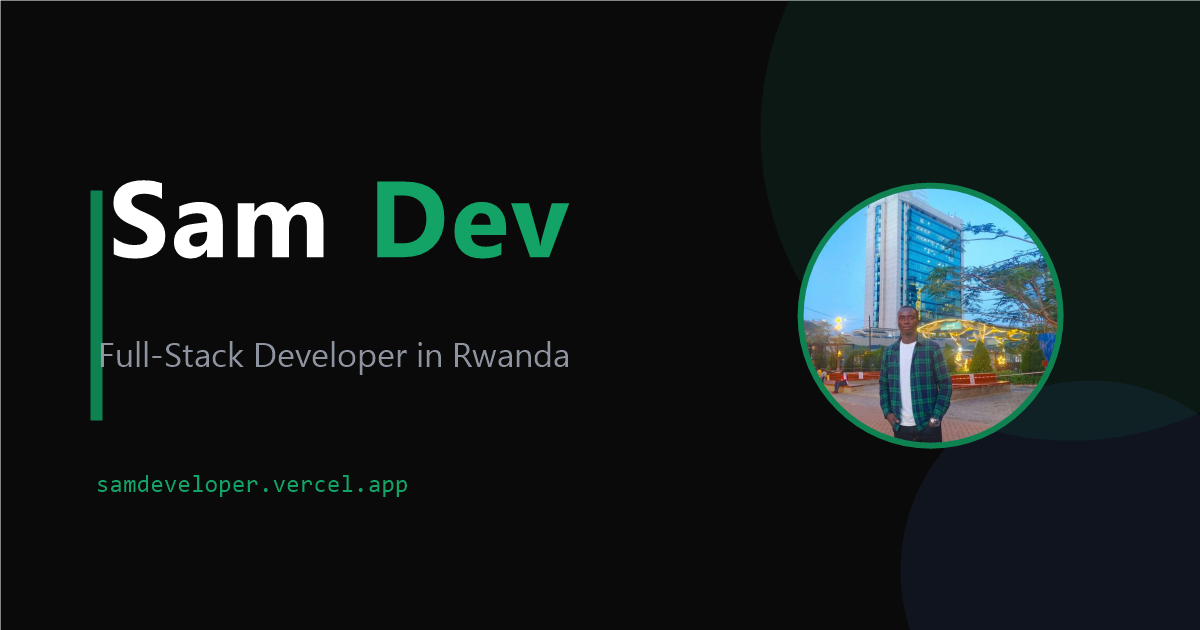
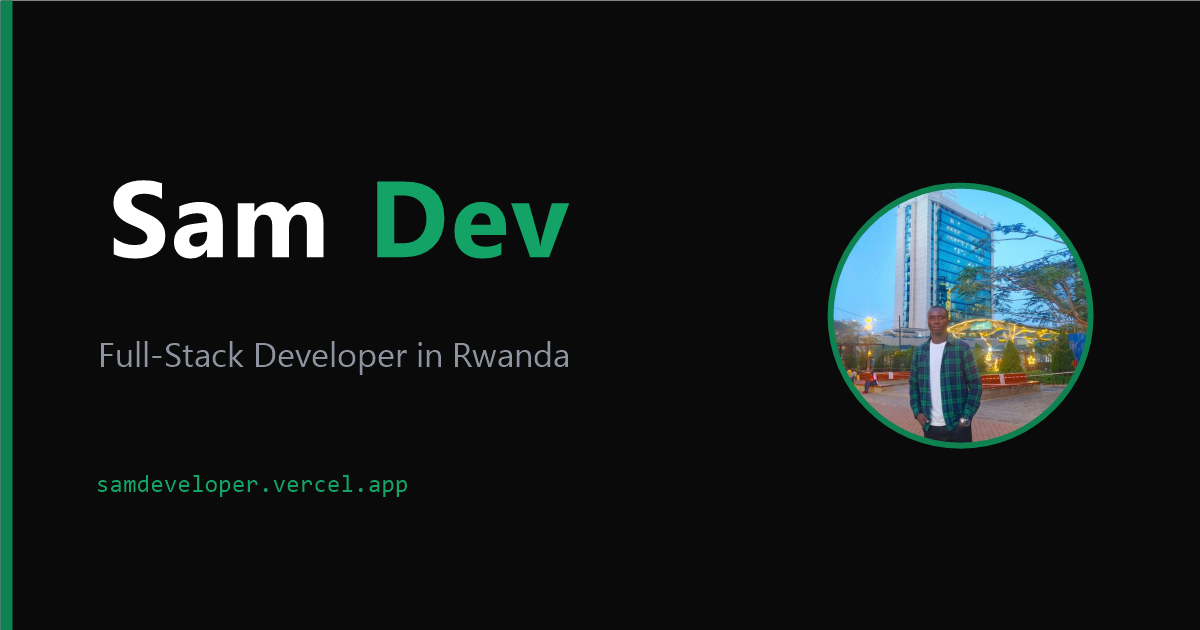
refactor(ui): remove color gradients, use solid brand green; flat professional OG card

Changed region(s): [[0.6475, 0.2714, 1.0, 0.7238], [0.0, 0.0, 0.0308, 1.0], [0.0617, 0.3016, 0.0925, 0.6635]]

diff --git a/src/components/Stats.jsx b/src/components/Stats.jsx
@@ -7,29 +7,25 @@ const stats = [
     label: 'Projects Completed',
     value: 10,
     suffix: '+',
-    icon: <Rocket size={20} />,
-    gradient: 'from-primary to-secondary'
+    icon: <Rocket size={20} />
   },
   {
     label: 'Technical Skills',
     value: 15,
     suffix: '+',
-    icon: <ShieldCheck size={20} />,
-    gradient: 'from-secondary to-primary'
+    icon: <ShieldCheck size={20} />
   },
   {
     label: 'Languages Spoken',
     value: 3,
     suffix: '+',
-    icon: <Globe2 size={20} />,
-    gradient: 'from-primary to-secondary'
+    icon: <Globe2 size={20} />
   },
   {
     label: 'Coding Passion',
     value: 100,
     suffix: '%',
-    icon: <Heart size={20} />,
-    gradient: 'from-secondary to-primary'
+    icon: <Heart size={20} />
   }
 ];
 
@@ -84,7 +80,7 @@ const Stats = () => {
               className="bg-white dark:bg-dark-900 px-6 py-10 flex flex-col items-center justify-center text-center group hover:bg-gray-50 dark:hover:bg-dark-800 transition-colors"
             >
               <div
-                className={`w-12 h-12 rounded-xl bg-gradient-to-br ${stat.gradient} text-white flex items-center justify-center mb-4 shadow-lg shadow-primary/10 group-hover:scale-110 transition-transform duration-300`}
+                className="w-12 h-12 rounded-xl bg-primary text-white flex items-center justify-center mb-4 shadow-lg shadow-primary/10 group-hover:scale-110 transition-transform duration-300"
               >
                 {stat.icon}
               </div>

diff --git a/src/components/About.jsx b/src/components/About.jsx
@@ -70,7 +70,7 @@ const About = () => {
             </motion.div>
             <h2 className="text-2xl md:text-4xl font-extrabold text-gray-900 leading-tight">
               Crafting Digital Solutions <br />
-              <span className="text-gradient underline decoration-primary/20 underline-offset-8">With Purpose & Precision</span>
+              <span className="text-primary underline decoration-primary/20 underline-offset-8">With Purpose & Precision</span>
             </h2>
           </div>
           <div className="hidden lg:block h-24 w-px bg-gray-200"></div>

diff --git a/src/components/Services.jsx b/src/components/Services.jsx
@@ -46,7 +46,7 @@ const Services = () => {
           </motion.div>
           <h2 className="text-2xl md:text-4xl font-extrabold text-gray-900 leading-tight">
             Comprehensive Digital <br/>
-            <span className="text-transparent bg-clip-text bg-gradient-to-r from-primary to-secondary">Solutions & Engineering</span>
+            <span className="text-primary">Solutions & Engineering</span>
           </h2>
         </div>
 

diff --git a/src/components/Hero.jsx b/src/components/Hero.jsx
@@ -32,7 +32,7 @@ const TypewriterText = ({ texts }) => {
   }, [currentText, isDeleting, currentIndex, texts]);
 
   return (
-    <span className="text-transparent bg-clip-text bg-gradient-to-r from-primary to-secondary">
+    <span className="text-primary">
       {currentText}
       <span className="animate-pulse text-gray-900 dark:text-white">|</span>
     </span>

diff --git a/src/index.css b/src/index.css
@@ -78,7 +78,7 @@
   }
 
   .text-gradient {
-    @apply bg-clip-text text-transparent bg-gradient-to-r from-primary to-primary-light;
+    @apply text-primary font-bold;
   }
 
   .section-label {
